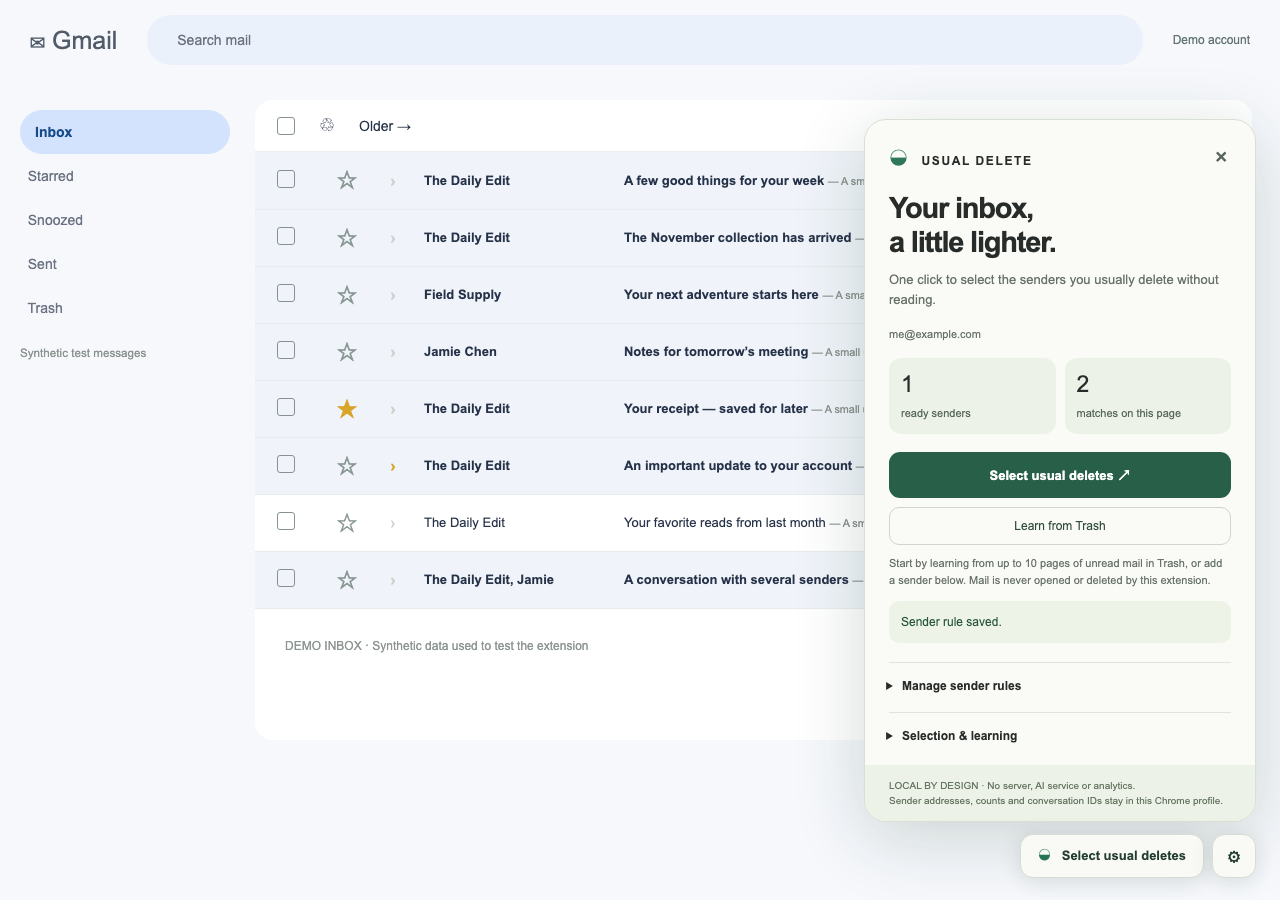
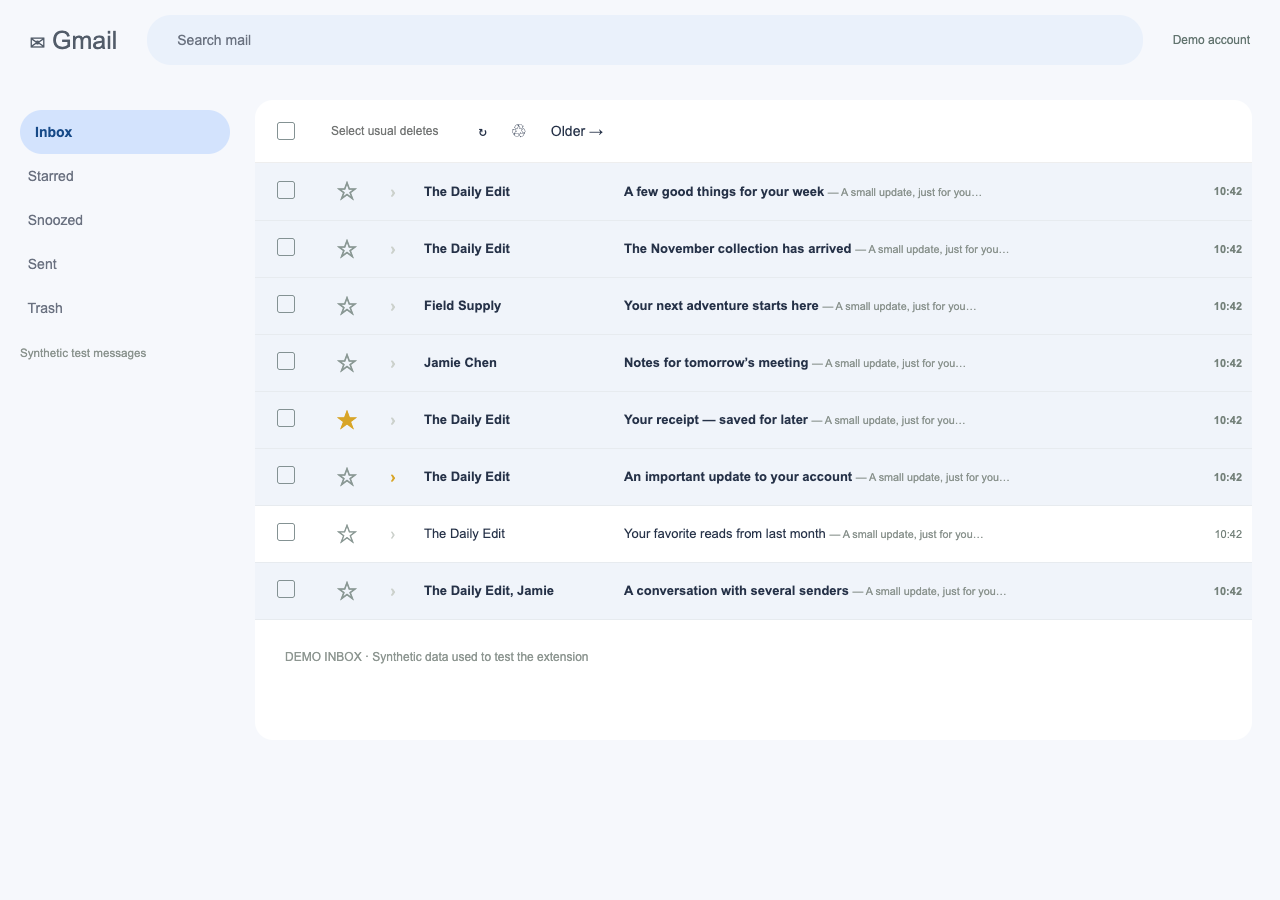
Move Gmail selection into the native toolbar

diff --git a/content.js b/content.js
@@ -10,7 +10,7 @@
     <style>
       :host{all:initial;position:fixed;right:24px;bottom:22px;z-index:2147483646;font-family:Arial,sans-serif;color:#272b29;color-scheme:light}
       *{box-sizing:border-box}button,input,select{font:inherit}button{cursor:pointer}button:focus-visible,input:focus-visible,select:focus-visible{outline:3px solid #266a55;outline-offset:3px}button:disabled{opacity:.5;cursor:wait}
-      .dock{display:flex;align-items:center;justify-content:flex-end;gap:8px}.launch,.gear{height:44px;border:1px solid #d6ddd5;border-radius:13px;box-shadow:0 4px 22px #17322322;background:#f9faf5;color:#243d32;font-size:13px;font-weight:700}.launch{padding:0 17px}.launch span{color:#267457;margin-right:7px}.gear{width:44px;font-size:20px}.launch:hover,.gear:hover{background:#edf3e9}
+      .toast{position:fixed;z-index:2147483646;width:max-content;max-width:min(330px,calc(100vw - 32px));padding:10px 13px;border:1px solid #cdd6c9;border-radius:8px;background:#fafbf6;color:#314b3a;box-shadow:0 3px 14px #1732231a;font-size:12px;line-height:1.5;pointer-events:none}
       .panel{width:392px;max-width:calc(100vw - 32px);max-height:calc(100vh - 104px);overflow:auto;margin-bottom:12px;border:1px solid #d8dfd4;border-radius:22px;background:#fafbf6;box-shadow:0 16px 70px #16332430}.panel[hidden],[hidden]{display:none!important}.head{padding:23px 24px 0;display:flex;align-items:center;justify-content:space-between}.brand{font-weight:800;font-size:12px;letter-spacing:1.6px}.brand i{font-style:normal;color:#2e7859;font-size:19px;margin-right:7px}.close{background:none;border:0;color:#57665c;font-size:23px;padding:0 3px}.body{padding:20px 24px 22px}h1{margin:0;font-size:29px;line-height:1.16;letter-spacing:-1.2px;font-weight:600}.sub{font-size:13px;color:#677268;line-height:1.55;margin:11px 0 17px}.account{font-size:11px;color:#677268;overflow-wrap:anywhere}.stats{display:flex;gap:9px;margin:18px 0}.stat{flex:1;padding:13px 12px;background:#edf2e8;border-radius:12px}.stat b{display:block;font-size:23px;font-weight:500;margin-bottom:5px}.stat span{font-size:11px;color:#58675b}
       .primary{background:#285f49;color:white;border:0;border-radius:11px;padding:14px 16px;width:100%;font-size:13px;font-weight:700;display:block}.primary:hover{background:#1b4c38}.secondary{background:transparent;border:1px solid #cdd6c9;border-radius:10px;padding:11px 12px;width:100%;color:#314b3a;font-size:12px;margin-top:9px}.secondary:hover{background:#edf2e8}.note{font-size:11px;color:#68736a;line-height:1.55;margin:10px 0 0}.status{font-size:12px;line-height:1.5;background:#eef3e8;color:#28563c;border-radius:10px;padding:12px;margin:12px 0 0;white-space:pre-line}.status.error{background:#f9e9df;color:#86442c}details{margin-top:19px;border-top:1px solid #dfe5d9;padding-top:16px}summary{font-size:12px;font-weight:bold;cursor:pointer;list-style-position:outside;margin-left:13px}.rules{margin-top:12px;max-height:230px;overflow:auto}.rule{padding:10px 0;border-bottom:1px solid #e5e9df}.rule-top{font-size:12px;overflow-wrap:anywhere;font-weight:bold}.rule-bottom{display:flex;align-items:center;justify-content:space-between;gap:8px;margin-top:6px}.evidence{font-size:10px;color:#68736a}select{border:1px solid #d2dacc;border-radius:6px;background:white;color:#344d3a;padding:5px;font-size:11px;max-width:150px}.add{display:flex;gap:6px;margin-top:12px}.add input{width:100%;min-width:0;border:1px solid #d2dacc;border-radius:8px;padding:9px;font-size:12px;background:white;color:#27372b}.add button{background:#e5eddf;border:0;border-radius:8px;color:#34583d;padding:9px 12px;font-size:12px}.setting{display:flex;align-items:flex-start;gap:8px;font-size:12px;line-height:1.4;margin:12px 0}.setting input{accent-color:#285f49;margin:2px 0 0}.threshold{display:flex;align-items:center;justify-content:space-between;font-size:12px;margin-top:13px}.reset{border:0;background:none;padding:0;font-size:11px;color:#8b553f;text-decoration:underline;margin-top:16px}.footer{padding:13px 24px;background:#edf2e8;color:#657561;font-size:10px;line-height:1.5}
       @media(prefers-reduced-motion:no-preference){.panel{animation:enter .16s ease-out}@keyframes enter{from{transform:translateY(6px);opacity:0}to{transform:translateY(0);opacity:1}}}
@@ -36,10 +36,32 @@
         </details>
       </div>
       <div class="footer">LOCAL BY DESIGN · No server, AI service or analytics.<br>Sender addresses, counts and conversation IDs stay in this Chrome profile.</div>
-    </section>
-    <div class="dock"><button class="launch" id="launch"><span>◒</span> Select usual deletes</button><button class="gear" id="gear" aria-label="Open Usual Delete settings" title="Settings & learning">⚙</button></div>`;
+    </section><div class="toast" id="toast" role="status" aria-live="polite" hidden></div>`;
   document.documentElement.append(host);
   const $ = id => shadow.getElementById(id);
+  const toolbarHost = document.createElement('span');
+  toolbarHost.id = 'usual-delete-toolbar';
+  const toolbarShadow = toolbarHost.attachShadow({mode: 'open'});
+  toolbarShadow.innerHTML = `<style>
+    :host{display:inline-flex;align-items:center;vertical-align:middle;margin:0 6px 0 2px;color:inherit}
+    button{appearance:none;border:0;background:transparent;color:inherit;border-radius:4px;height:32px;padding:0 9px;font:500 12px Arial,sans-serif;white-space:nowrap;opacity:.75;cursor:pointer}
+    button:hover{background:#80808020;opacity:1}button:focus-visible{outline:2px solid currentColor;outline-offset:1px}button:disabled{opacity:.4;cursor:wait}
+  </style><button id="toolbar-select" title="Select matching unread inbox conversations">Select usual deletes</button>`;
+  const toolbarButton = toolbarShadow.getElementById('toolbar-select');
+  function mountToolbar() {
+    const anchor = G.toolbarAnchor();
+    if (!anchor?.parentElement) { toolbarHost.remove(); $('toast').hidden = true; return; }
+    if (anchor.nextElementSibling !== toolbarHost) anchor.after(toolbarHost);
+    // Native toolbar icons use image styling, so their inherited text color can
+    // remain black in Gmail's dark theme. Choose readable text from the backdrop.
+    for (let parent = anchor.parentElement; parent; parent = parent.parentElement) {
+      const color = getComputedStyle(parent).backgroundColor.match(/[\d.]+/g)?.map(Number);
+      if (!color || (color.length > 3 && color[3] < .95)) continue;
+      const brightness = (color[0] * 299 + color[1] * 587 + color[2] * 114) / 1000;
+      toolbarHost.style.color = brightness < 140 ? '#e8eaed' : '#444746';
+      break;
+    }
+  }
   let account = null;
   let accountId = null;
   let busy = false;
@@ -48,14 +70,26 @@
   let generation = 0;
   let selectionQuery = null;
   let resetTimer;
+  let toastTimer;
 
   function status(text, error = false) {
     $('status').hidden = !text;
     $('status').textContent = text;
     $('status').classList.toggle('error', error);
+    clearTimeout(toastTimer);
+    $('toast').hidden = true;
+    if (text && !error && $('panel').hidden && toolbarHost.isConnected) {
+      const rect = toolbarHost.getBoundingClientRect();
+      $('toast').textContent = text.split(/(?<=\.)\s/)[0];
+      $('toast').style.left = `${Math.max(16, Math.min(rect.left, window.innerWidth - 346))}px`;
+      $('toast').style.top = `${rect.bottom + 8}px`;
+      $('toast').hidden = false;
+      toastTimer = setTimeout(() => { $('toast').hidden = true; }, 4500);
+    }
   }
   function panel(open = true) {
     $('panel').hidden = !open;
+    $('toast').hidden = true;
     if (open) refresh().catch(error => status(error.message, true));
   }
   async function rpc(type, data = {}) {
@@ -105,9 +139,10 @@
   async function run(action) {
     if (busy) return;
     busy = true;
-    for (const id of ['select', 'launch', 'learn', 'reset']) $(id).disabled = true;
+    for (const id of ['select', 'learn', 'reset']) $(id).disabled = true;
+    toolbarButton.disabled = true;
     try { await action(); } catch (error) { $('panel').hidden = false; status(error.message, true); }
-    finally { busy = false; for (const id of ['select', 'launch', 'learn', 'reset']) $(id).disabled = false; }
+    finally { busy = false; for (const id of ['select', 'learn', 'reset']) $(id).disabled = false; toolbarButton.disabled = false; }
   }
   function guard(token, id, hash) {
     if (generation !== token || G.accountEmail() !== id || G.routeKey(location.hash) !== G.routeKey(hash)) throw new Error('Stopped because the Gmail view changed. Try again from your inbox.');
@@ -115,8 +150,7 @@
   }
   async function selectUsual() {
     await refresh();
-    $('panel').hidden = false;
-    if (!C.eligibleSenders(account).length) { status('First, click “Learn from Trash” or add a sender under Manage sender rules.'); return; }
+    if (!C.eligibleSenders(account).length) { $('panel').hidden = false; status('First, click “Learn from Trash” or add a sender under Manage sender rules.'); return; }
     let hash = location.hash;
     const token = ++generation;
     const id = accountId;
@@ -233,12 +267,14 @@
       try { await rpc('events', {events: [{id: row.id, email: row.email, type: 'opened'}]}); } catch (_) {}
     }, 1000);
   }, true);
-  $('gear').addEventListener('click', () => panel($('panel').hidden));
   $('close').addEventListener('click', () => panel(false));
-  $('launch').addEventListener('click', () => run(selectUsual));
+  toolbarButton.addEventListener('click', () => run(selectUsual));
   $('select').addEventListener('click', () => run(selectUsual));
   $('learn').addEventListener('click', () => run(learnTrash));
-  shadow.addEventListener('keydown', event => { if (event.key === 'Escape') { panel(false); $('gear').focus(); } });
+  shadow.addEventListener('keydown', event => { if (event.key === 'Escape') { panel(false); toolbarButton.focus(); } });
+  document.addEventListener('pointerdown', event => {
+    if (!$('panel').hidden && !busy && !event.composedPath().includes(host) && !event.composedPath().includes(toolbarHost)) panel(false);
+  }, true);
   $('add-form').addEventListener('submit', event => {
     event.preventDefault();
     run(async () => { await refresh(); await rpc('rule', {email: $('email').value, mode: 'always'}); $('email').value = ''; render(); status('Sender added. Its unread inbox conversations can now be selected.'); });
@@ -257,10 +293,12 @@
   let debounce;
   const observer = new MutationObserver(changes => {
     if (!changes.some(change => !host.contains(change.target))) return;
+    mountToolbar();
     clearTimeout(debounce);
     debounce = setTimeout(() => { observeTrash(); if (account && !$('panel').hidden) render(); }, 800);
   });
   observer.observe(document.body, {childList: true, subtree: true});
-  window.addEventListener('hashchange', () => { clearTimeout(debounce); debounce = setTimeout(() => { observeTrash(); if (account && !$('panel').hidden) render(); }, 900); });
+  window.addEventListener('hashchange', () => { $('toast').hidden = true; mountToolbar(); clearTimeout(debounce); debounce = setTimeout(() => { observeTrash(); if (account && !$('panel').hidden) render(); }, 900); });
+  mountToolbar();
   refresh().then(observeTrash).catch(() => {});
 })();

diff --git a/tests/gmail-fixture.html b/tests/gmail-fixture.html
@@ -4,7 +4,7 @@ body{margin:0;background:#f6f8fc;font:14px Arial,sans-serif;color:#263248}header
 </style>
 <header role="banner"><b>✉ Gmail</b><span>Search mail</span><a href="https://accounts.google.com/SignOutOptions" aria-label="Google Account: Demo (me@example.com)">Demo account</a></header>
 <aside><b>Inbox</b><div> &nbsp; Starred</div><div> &nbsp; Snoozed</div><div> &nbsp; Sent</div><div> &nbsp; Trash</div><small>Synthetic test messages</small></aside>
-<main role="main"><div role="toolbar"><div role="checkbox" class="T-Jo" aria-label="Select" aria-checked="false" tabindex="0" id="bulk"></div><span role="button" aria-label="Delete" id="delete">♲</span><span role="button" class="T-I" aria-label="Older" id="older">Older →</span></div><div class="v1" id="banner"></div><table><tbody id="messages"></tbody></table><div class="quiet">DEMO INBOX · Synthetic data used to test the extension</div></main>
+<main role="main"><div role="toolbar"><div role="checkbox" class="T-Jo" aria-label="Select" aria-checked="false" tabindex="0" id="bulk"></div><span role="button" aria-label="Refresh" id="refresh">↻</span><span role="button" aria-label="Delete" id="delete">♲</span><span role="button" class="T-I" aria-label="Older" id="older">Older →</span></div><div class="v1" id="banner"></div><table><tbody id="messages"></tbody></table><div class="quiet">DEMO INBOX · Synthetic data used to test the extension</div></main>
 <script>
 window.testState = {opened:0, deleted:0, all:false, trashPage:0, includeMixed:true};
 const inbox=[

diff --git a/gmail.js b/gmail.js
@@ -93,6 +93,13 @@
     const nodes = root ? [...root.querySelectorAll('.T-Jo[role="checkbox"], [role="toolbar"] [role="checkbox"]')] : [];
     return nodes.find(node => visible(node) && !node.closest('tr.zA, [role="row"]')) || null;
   }
+  function toolbarAnchor() {
+    const bulk = bulkControl();
+    if (!bulk) return null;
+    // Place our control after the complete Select group, including its dropdown.
+    // Gmail keeps this group while swapping Refresh for selected-message actions.
+    return bulk.closest('.G-Ni') || bulk;
+  }
   function allResultsLink() {
     const root = main();
     if (!root) return null;
@@ -102,6 +109,6 @@
   function allResultsSelected() {
     return [...(main()?.querySelectorAll('.v1, .aeF .ya, .Tm .ya, .aeF [role="status"], [data-ud-all-selected]') || [])].some(node => visible(node) && /all\b.*\b(conversations|messages)\b.*\bselected|toate\b.*\bselectate/i.test(node.textContent));
   }
-  const api = {visible, delay, label, main, routeKey, accountEmail, parseRow, rows, isTrash, isInbox, isList, waitFor, stableRows, setSelected, activateButton, bulkControl, allResultsLink, allResultsSelected};
+  const api = {visible, delay, label, main, routeKey, accountEmail, parseRow, rows, isTrash, isInbox, isList, waitFor, stableRows, setSelected, activateButton, bulkControl, toolbarAnchor, allResultsLink, allResultsSelected};
   globalThis.UsualGmail = api;
 })();

diff --git a/README.md b/README.md
@@ -6,9 +6,9 @@ A Chrome extension for Gmail that selects unread inbox conversations from sender
 
 [Download the latest extension ZIP](https://github.com/andrei930/usual-delete/releases/latest/download/usual-delete.zip) · [Releases](https://github.com/andrei930/usual-delete/releases)
 
-## Version 1.0.1
+## Version 1.0.2
 
-Fixed two issues confirmed in live Gmail: importance is now read from the accessible switch around Gmail’s icon, and Trash pagination activates Gmail’s mouse-down/up toolbar handlers. The original version treated unlabeled importance icons as protected mail and timed out when its click did not advance the Trash page. The regression fixture now reproduces both native behaviors.
+The selection button now sits in Gmail’s toolbar, between Select all and Refresh. Floating buttons have been removed, and successful selection shows only a brief status message. Open **Settings & learning** from the extension’s Chrome toolbar icon when needed.
 
 To update an existing unpacked installation, replace its folder contents, click **Reload** on its Chrome Extensions card, then refresh Gmail. Its permissions and saved learning are unchanged.
 
@@ -18,8 +18,8 @@ To update an existing unpacked installation, replace its folder contents, click 
 2. In Chrome, open **Manage Extensions** from the Extensions menu, or type `chrome://extensions` in the address bar.
 3. Turn on **Developer mode** in the upper right.
 4. Click **Load unpacked** and select the `usual-delete` folder containing `manifest.json`.
-5. Refresh your Gmail tab. A **Select usual deletes** button and a settings gear appear in the lower right.
-6. Click the gear, then **Learn from Trash**. This scans up to 10 pages of unread conversations in Trash and returns to your previous view. It does not open messages. If you prefer, add a complete sender address under **Manage sender rules** instead.
+5. Refresh your Gmail tab. The **Select usual deletes** button appears in Gmail’s toolbar, between Select all and Refresh.
+6. Open **Usual Delete** from Chrome’s Extensions menu (or its pinned icon), choose **Settings & learning**, then **Learn from Trash**. This scans up to 10 pages of unread conversations in Trash and returns to your previous view. It does not open messages. If you prefer, add a complete sender address under **Manage sender rules** instead.
 7. Click **Select usual deletes**. It searches your inbox for qualifying unread mail and selects matching conversations. Review them, then press Gmail’s Delete button yourself.
 
 You can also pin the extension to Chrome’s toolbar and use its popup. No purchase, API key, account connection, or build step is required. This is an unpacked extension, not a Chrome Web Store listing. Chrome or your organization may restrict developer-mode extensions.

diff --git a/TESTING.md b/TESTING.md
@@ -1,6 +1,12 @@
 # Verification report
 
-Verified November 2, 2026. Extension version 1.0.1.
+Verified November 2, 2026. Extension version 1.0.2.
+
+## Toolbar verification for 1.0.2
+
+The installed extension was updated and inspected in an existing Gmail session. Its button appears immediately after Select all and before Refresh, with no floating action controls. Text contrast was checked against Gmail’s dark theme, and settings were opened successfully through Chrome’s Extensions menu. No email was opened or deleted during the layout check.
+
+The automated browser suite additionally verifies toolbar placement, removal of the floating controls, restoration after Gmail removes the toolbar element, selection without opening settings, and automatic dismissal of the brief feedback message.
 
 ## Live Gmail verification for 1.0.1
 
@@ -11,7 +17,7 @@ Two live DOM differences were confirmed and fixed: Gmail puts importance state o
 ## Completed
 
 - **19 passing Node tests** for sender learning, minimum evidence, negative feedback, overrides, safe search construction, invalid inputs, event deduplication, account isolation, concurrent writes across tabs, paused learning, storage failures, sender removal, and reset scope.
-- **20 passing browser checks** using the actual unpacked Manifest V3 extension, including its actual service worker and Chrome local-storage API, in a fresh temporary Chromium for Testing profile controlled by Playwright 1.64.1.
+- **25 passing browser checks** using the actual unpacked Manifest V3 extension, including its actual service worker and Chrome local-storage API, in a fresh temporary Chromium for Testing profile controlled by Playwright 1.64.1.
 - The browser checks cover first-run state; two-page Trash training; returning to the original inbox; repeated scan deduplication; no messages opened during learning; current-page protection of read/starred/important/mixed-sender/unknown-sender rows; no automatic deletion; manual rules; never-select overrides; clearing unrelated selections when no candidates match; avoiding global selection when mixed-sender rows are visible; native selection across all search pages; inbox-only unread search; repeated selection; navigation cancellation; opening-based negative feedback; confidence reduction; Gmail account changes; and absence of browser JavaScript errors.
 - Syntax checks for production JavaScript, manifest parsing, icon presence and dimensions, and ZIP integrity.
 - Visual inspection of the extension’s settings panel in a synthetic Gmail inbox. The preview file shows synthetic messages, not anyone’s real mailbox.

diff --git a/CHANGELOG.md b/CHANGELOG.md
@@ -1,5 +1,12 @@
 # Changelog
 
+## 1.0.2 — 2026-11-02
+
+- Move Select usual deletes into Gmail’s toolbar, between Select all and Refresh.
+- Remove the floating action buttons and keep settings available through the Chrome toolbar popup.
+- Keep the settings panel closed during normal selection and show brief feedback that disappears automatically.
+- Restore the selection button when Gmail replaces toolbar elements.
+
 ## 1.0.1 — 2026-11-02
 
 - Read Gmail’s importance state from the accessible switch surrounding its icon.

diff --git a/PRIVACY.md b/PRIVACY.md
@@ -1,4 +1,4 @@
-# Privacy policy — Usual Delete 1.0.1
+# Privacy policy — Usual Delete 1.0.2
 
 Updated November 2, 2026.
 
